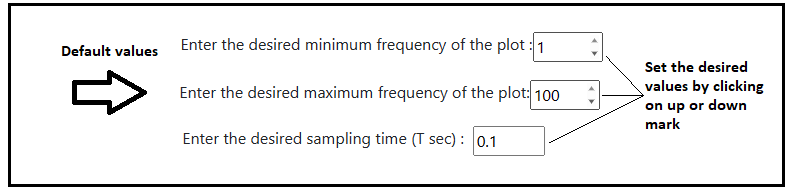
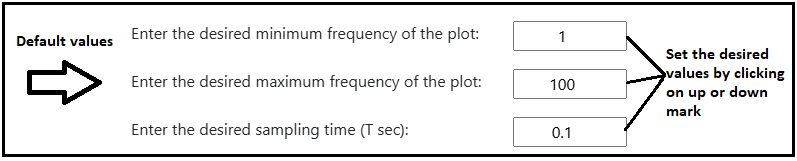
update new aug 28

diff --git a/experiment/simulation/index.html b/experiment/simulation/index.html
@@ -11,7 +11,7 @@
 <!DOCTYPE html>
 <html lang="en"><!--html tag start-->
 <head>
-    <title>Determine frequency response of zero order hold and first order hold using actual transfer functions and Pade approximations</title>
+    <title>Determine Frequency Response of Zero Order Hold and First Order Hold using Actual Transfer Functions and Pade Approximations</title>
     <meta charset="UTF-8">
     <meta http-equiv="X-UA-Compatible" content="IE=edge">
     <meta name="viewport" content="width=device-width, initial-scale=1.0">
@@ -104,15 +104,6 @@
   
 </head>
 
-<!-- Google tag (gtag.js) -->
-<script async src="https://www.googletagmanager.com/gtag/js?id=G-DR65GC9DFB"></script>
-<script>
-  window.dataLayer = window.dataLayer || [];
-  function gtag(){dataLayer.push(arguments);}
-  gtag('js', new Date());
-
-  gtag('config', 'G-DR65GC9DFB');
-</script>
 
 <body><!--body tag start-->
     <div class="container p-3 my-3 text-primary text-center border"><!--First Container under body tag start-->
@@ -134,17 +125,18 @@
 
             </div><!--First col under 2nd row end-->
             <div class="col-md-6"><!--2nd col under 2nd row start-->
-                <p class="h1"> <b> Simulation</b> </p>
+                <p class="h1"> <b>Simulation</b> </p>
             </div><!--2nd col under 2nd row end-->
             <div class="col-md-3"><!--3rd col under 2nd row start-->
 
             </div><!--3rd col under 2nd row end-->
         </div><!--2nd row under 1st container end-->
         <hr>
-        
+       
     </div><!--First Container under body tag end-->
     
-       <div class="container p-3 my-5 text-left border"><!--3rd Container under body tag start-->
+	
+    <div class="container p-3 my-5 text-left border"><!--3rd Container under body tag start-->
       <div class="row"><!--First row under 3rd container start-->
         <div class="col-md-1"></div><!--First col under 3rd container start& end-->
         <div class="col-md-10"><!--2nd col under 3rd container start-->
@@ -178,12 +170,12 @@
 	<div class="col-md-12">
 	
 	
-			<div   class="img-container">			
+			<div>			
 			
-			Enter the desired minimum frequency of the plot :&nbsp;<input type="number" id="minf" min="1" value="1" max="10" step="1" style="position:absolute;width:20%" ><br/></br>
-			Enter the desired maximum frequency of the plot: &nbsp;<input type="number" id="maxf" min="10" value="100" max="1000" step="10" style="position:absolute;width:20%"><br/><br/>			
+			<span style="position:absolute;left:30%">Enter the desired minimum frequency of the plot:</span>&nbsp;<input type="number" id="minf" min="1" value="1" max="10" step="1" style="position:absolute;width:6%;text-align:center" ><br/></br>
+			<span style="position:absolute;left:30%">Enter the desired maximum frequency of the plot:</span> &nbsp;<input type="number" id="maxf" min="10" value="100" max="1000" step="10" style="position:absolute;width:6%;text-align:center"><br/><br/>			
 			<!--Enter the desired sampling time :    <input type="number" id="Ts" min="0.01" value="0.1" max="10" step="0.01" style="position:absolute;width:20%"readonly=readonly><br/></br>-->
-			Enter the desired sampling time (T sec) :    &nbsp;<input type="number" onchange="inputChange()" id="Ts" min="0.01" value="0.1" max="0.5" step="0.01" style="position:absolute;width:20%"><br/></br>				
+			<span style="position:absolute;left:30%">Enter the desired sampling time (T sec):</span>    &nbsp;<input type="number" onchange="inputChange()" id="Ts" min="0.01" value="0.1" max="0.5" step="0.01" style="position:absolute;width:6%;text-align:center"><br/></br>				
 			</div>
 			<br/>
 			

diff --git a/README.md b/README.md
@@ -7,14 +7,14 @@
 <b>Discipline | <b>Electrical Engineering 
 :--|:--|
 <b> Lab | <b> Digital Control Laboratory
-<b> Experiment|     <b> Determine frequency response of zero order hold and first order hold using actual transfer functions and Pade approximations and Exp 1
+<b> Experiment|     <b> Determine Frequency Response of Zero Order Hold and First Order Hold using Actual Transfer Functions and Pade Approximations and Exp 1
 
 ### About the Experiment 
 
  **The Hold Operation**
 
 In the computer-controlled systems, it is necessary to convert the control actions calculated by the computer as a sequence of numbers, to a continuous-time signal that can be applied to the process.<br/><br>
-            
+
 The problem of hold operation may be posed as follows:<br>
 Given a sequence 
 
@@ -22,27 +22,32 @@ $$ {y(0), y(1),..., y(k),...} $$
 
 We have to construct
 
-$$ y_a(t), t \ge 0 $$
+$$ y_a(t), t \ge 0 $$	
 
-A commonly used solution to the problem of hold operation is polynomial extrapolation. Using Taylor’s series expansion about <img src="experiment/images/t_kT.png">, we can express 
+A commonly used solution to the problem of hold operation is polynomial extrapolation. Using Taylor’s series expansion about <img src="./images/t_kT.png">, we can express 
+
 $$ y_a(t) = y_a(kT) + \dot y_a (kT)(t-kT)+ \frac {\ddot y_a(kT)}{2!} (t-kT)^2 +...; kT \le t \lt (k+1)T \tag{1} $$
+
 where,
+
 $$ \dot y_a (kT) \cong \frac{1}{T} [y_a(kT)-y_a((k-1)T)] $$ 
 $$ \ddot y_a(kT) \cong \frac{1}{T^2} [y_a(kT)-2y_a((k-1)T)+y_a((k-2)T)] $$
 
 
-If only the first term in expansion (1) is used, the data hold is called a zero-order hold (ZOH). 
-Here we assume that the function  <img src="experiment/images/ya_t.png"> is approximately constant within the sampling interval, at a value equal to that of the function at the preceding sampling instant. 
-Therefore, for a given input sequence <img src="experiment/images/yk.png">, the output of ZOH is given by <br>
+If only the first term in expansion (1) is used, the data hold is called a Zero-Order Hold (ZOH). 
+Here we assume that the function  <span style="font-family:Sitka Text; font-style:italic;">y<sub>a</sub></span>(<span style="font-family:Bodoni MT; font-style:italic;font-size:18px">t</span>) is approximately constant within the sampling interval, at a value equal to that of the function at the preceding sampling instant. 
+Therefore, for a given input sequence {<span style="font-family:Sitka Text; font-style:italic;">y</span>(<span style="font-family:Bodoni MT; font-style:italic;font-size:18px">k</span>)}, the output of ZOH is given by <br>
 $$ y_a(t) = y(k) ; kT \le t \lt (k+1)T \tag{2} $$
 
-The first two terms in expansion (1) are used to realize the first-order hold. For a given input sequence <img src="experiment/images/yk.png">, the output of the first-order hold is given by<br>
+The first two terms in expansion (1) are used to realize the first-order hold. For a given input sequence {<span style="font-family:Sitka Text; font-style:italic;">y</span>(<span style="font-family:Bodoni MT; font-style:italic;font-size:18px">k</span>)}, the output of the first-order hold is given by<br>
+
 $$ y_a(t) = y(k) + \frac {t-kT}{T} [y(k) - y(k-1)] \tag{3} $$
 
 It is obvious from expansion (1) that the higher the order of the derivative to be approximated, the larger will be the number of delay pulses required. The time-delay adversely affects the stability of feedback control systems. 
 Furthermore, a high-order extrapolation requires complex circuitry and results in high costs of construction. The ZOH is the simplest, and most commonly used, data hold device. 
 The standard D/A converters are often designed in such a way that the old value is held constant until a new conversion is ordered.
 
+					
 
 
 	

diff --git a/experiment/theory.md b/experiment/theory.md
@@ -1,22 +1,23 @@
 # Theory
 
-Zero-order hold (ZOH) devices convert sampled signals to continuoustime signals for analyzing sampled continuous-time systems. 
-The zero-order hold discretization of a continuous-time LTI model is depicted in the Fig. 1.<br/><br>
-            
+Zero-Order Hold (ZOH) devices convert sampled signals to continuous-time signals for analyzing sampled continuous-time systems. 
+The ZOH discretization of a continuous-time LTI model is depicted in the Fig. 1.<br/><br>
+
 <div align="center">
 <img class="img-fluid"  src= "./images/ZOH block.jpg" alt=""><br>
-<figcaption style="color:black"> Fig.1. Block diagram of Zero-order hold </figcaption>
+<b> Fig.1. Block diagram of Zero-Order Hold </b><br/>
 </div><br>
-            
-The ZOH device generates a continuous input signal u(t) by holding each sample value u(k) constant over one sample period. <br>
+
+The ZOH device generates a continuous input signal <span style="font-family:Bodoni MT; font-style:italic;font-size:18px">u</span>(<span style="font-family:Bodoni MT; font-style:italic;font-size:18px">t</span>) 
+by holding each sample value <span style="font-family:Bodoni MT; font-style:italic;font-size:18px">u</span>(<span style="font-family:Bodoni MT; font-style:italic;font-size:18px">k</span>) constant over one sample period. <br>
 $$ u(t) = u(k) ; kT \le t \le (k+1)T \tag{1} $$
 
 
-First-order hold (FOH) differs from ZOH by the underlying hold mechanism. <br>
+First-Order Hold (FOH) differs from ZOH by the underlying hold mechanism. <br>
 To turn the input samples into a continuous input, FOH uses linear interpolation between samples. <br>
 $$ u(t) = u(k) + \frac {t-kT}{T} [u(k+1)-u(k)] ; kT \le t \le (k+1)T \tag{2} $$
 
-            
+
 The transfer functions for these circuits are given as <br>
 For ZOH  <br>
 $$ G(s) = \frac {1-e^{-Ts}}{s} \tag{3} $$
@@ -26,7 +27,7 @@ For FOH  <br>
 $$ G(s) = \frac {1+Ts}{T} \frac {(1-e^{-Ts})^2}{s^2} \tag{4} $$
 
 
-Practical implementable transfer functions are obtained using approximations of exponential series. (Pade Approximations)                 
+Practical implementable transfer functions are obtained using approximations of exponential series (Pade Approximations).               
 
 
 

diff --git a/experiment/procedure.md b/experiment/procedure.md
@@ -9,7 +9,7 @@
 <div align="center">
 <img class="img-fluid"  src="./images/DV.png" alt="">
 
-<figcaption style="color:black"> Fig.1. Maximum, Minimum Frequency and Sampling time values entry </figcaption>						  
+<b> Fig.1. Maximum, Minimum Frequency and Sampling time values entry </b>						  
 </div>
 
 2. Click on 'Select method for linear scale' dropdown-menu and select the desired option.
@@ -17,7 +17,7 @@
 <div align="center">
 <img class="img-fluid"  src="./images/Linear_Scale.png" alt="">
 
-<figcaption style="color:black"> Fig.2. Selecting method for linear scale simulation </figcaption>							  
+<b> Fig.2. Selecting method for linear scale simulation </b>							  
 </div>
 
 
@@ -26,7 +26,7 @@
 <div align="center">
 <img class="img-fluid"  src="./images/Semilog_Scale.png" alt="">
 
-<figcaption style="color:black"> Fig.3. Selecting method for semilog simulation </figcaption>	
+<b> Fig.3. Selecting method for semilog simulation </b>	
 </div>
 
 4. Click on 'Plot' button for simulation.
